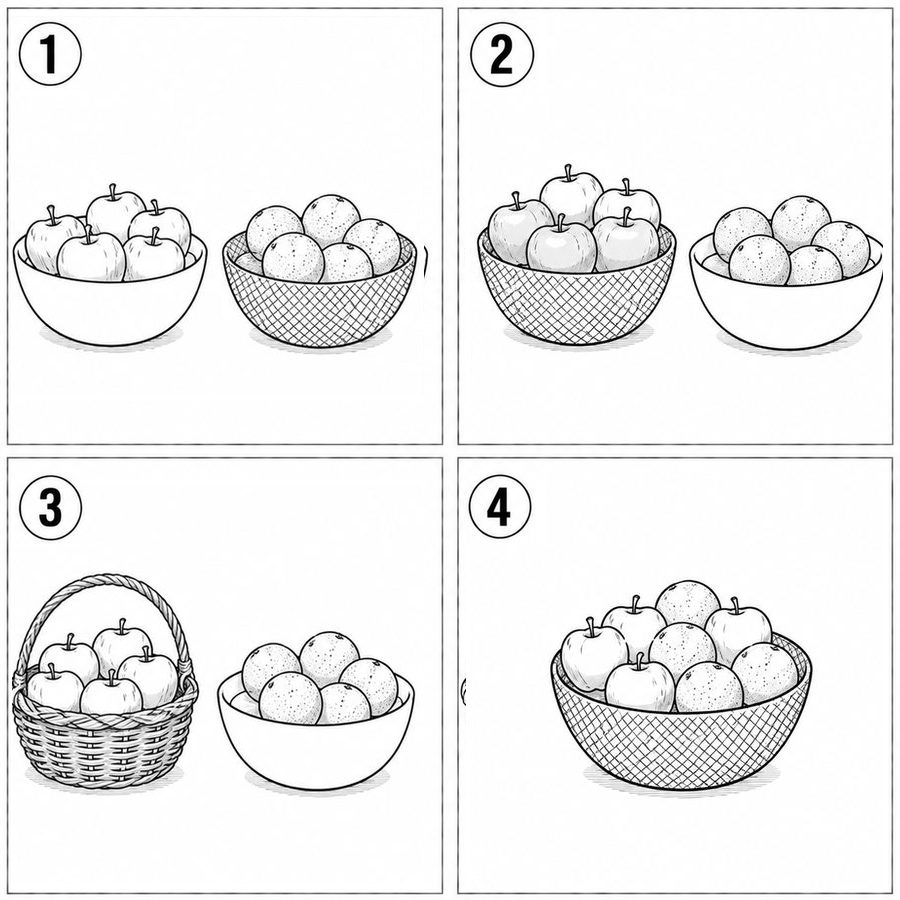
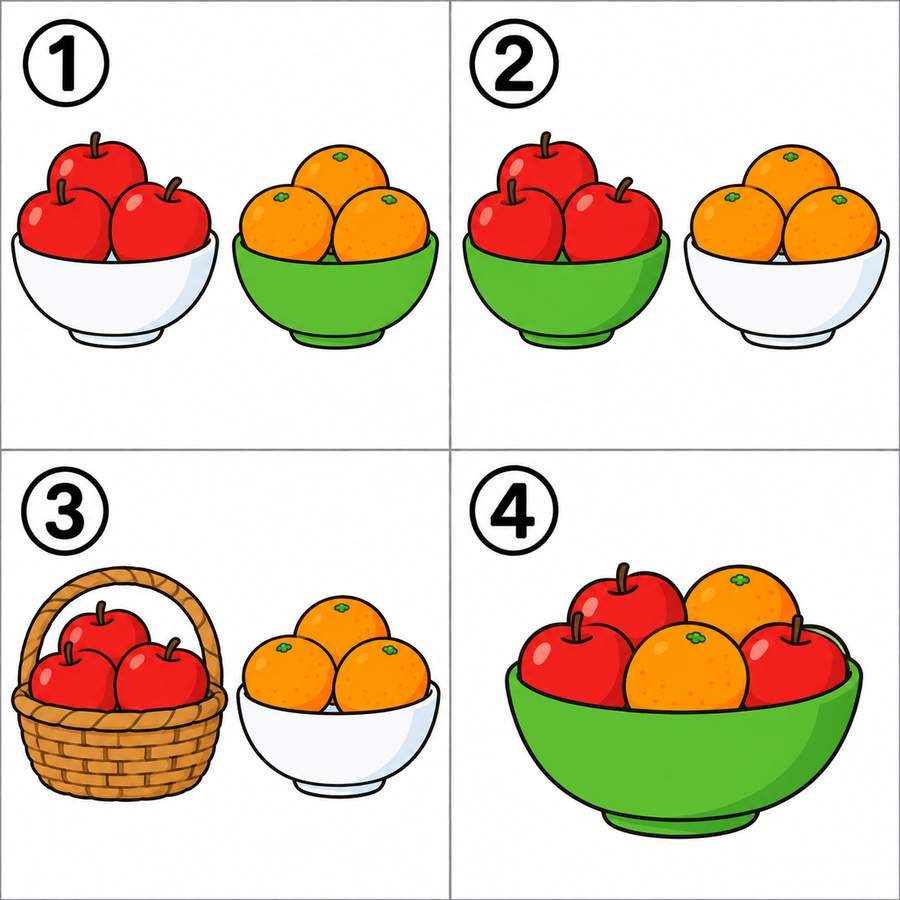
fix: restore seven color listening figures

diff --git a/src/battle/data/pictureGrid.generated.ts b/src/battle/data/pictureGrid.generated.ts
@@ -14,22 +14,22 @@ export const PICTURE_GRID_SPLITS: Readonly<Record<string, readonly [number, numb
   '/listening_q1b/el1B_set11_q4.jpg': [0.4989, 0.4989],
   '/listening_q1b/el1B_set12_q1.jpg': [0.4933, 0.4922],
   '/listening_q1b/el1B_set12_q2.jpg': [0.4922, 0.4933],
-  '/listening_q1b/el1B_set12_q3.jpg': [0.4933, 0.4956],
+  '/listening_q1b/el1B_set12_q3.jpg': [0.5, 0.5],
   '/listening_q1b/el1B_set12_q4.jpg': [0.4922, 0.4933],
   '/listening_q1b/el1B_set13_q1.jpg': [0.4989, 0.4989],
   '/listening_q1b/el1B_set13_q2.jpg': [0.4989, 0.4978],
   '/listening_q1b/el1B_set13_q3.jpg': [0.4989, 0.4989],
   '/listening_q1b/el1B_set13_q4.jpg': [0.4989, 0.4978],
   '/listening_q1b/el1B_set14_q1.jpg': [0.4978, 0.4978],
-  '/listening_q1b/el1B_set14_q2.jpg': [0.4978, 0.4978],
+  '/listening_q1b/el1B_set14_q2.jpg': [0.5, 0.5],
   '/listening_q1b/el1B_set14_q3.jpg': [0.4978, 0.4978],
   '/listening_q1b/el1B_set14_q4.jpg': [0.4956, 0.4989],
   '/listening_q1b/el1B_set15_q1.jpg': [0.4922, 0.4933],
   '/listening_q1b/el1B_set15_q2.jpg': [0.4922, 0.4933],
   '/listening_q1b/el1B_set15_q3.jpg': [0.4922, 0.4933],
-  '/listening_q1b/el1B_set15_q4.jpg': [0.4933, 0.4956],
+  '/listening_q1b/el1B_set15_q4.jpg': [0.5, 0.5],
   '/listening_q1b/el1B_set1_q1.jpg': [0.4933, 0.4956],
-  '/listening_q1b/el1B_set1_q2.jpg': [0.4944, 0.4944],
+  '/listening_q1b/el1B_set1_q2.jpg': [0.5, 0.5],
   '/listening_q1b/el1B_set1_q3.jpg': [0.4956, 0.4933],
   '/listening_q1b/el1B_set1_q4.jpg': [0.4956, 0.4978],
   '/listening_q1b/el1B_set2_q1.jpg': [0.4956, 0.4978],
@@ -62,7 +62,7 @@ export const PICTURE_GRID_SPLITS: Readonly<Record<string, readonly [number, numb
   '/listening_q1b/el1B_set8_q4.jpg': [0.4911, 0.4922],
   '/listening_q1b/el1B_set9_q1.jpg': [0.4944, 0.4951],
   '/listening_q1b/el1B_set9_q2.jpg': [0.4944, 0.4951],
-  '/listening_q1b/el1B_set9_q3.jpg': [0.4944, 0.4964],
+  '/listening_q1b/el1B_set9_q3.jpg': [0.5, 0.5],
   '/listening_q1b/el1B_set9_q4.jpg': [0.4933, 0.4964],
   '/listening_q2/el2_set10_q1.jpg': [0.4933, 0.4944],
   '/listening_q2/el2_set10_q2.jpg': [0.4789, 0.4778],
@@ -72,7 +72,7 @@ export const PICTURE_GRID_SPLITS: Readonly<Record<string, readonly [number, numb
   '/listening_q2/el2_set11_q3.jpg': [0.4933, 0.4944],
   '/listening_q2/el2_set12_q1.jpg': [0.4922, 0.4956],
   '/listening_q2/el2_set12_q2.jpg': [0.4911, 0.4944],
-  '/listening_q2/el2_set12_q3.jpg': [0.4933, 0.4944],
+  '/listening_q2/el2_set12_q3.jpg': [0.5, 0.5],
   '/listening_q2/el2_set13_q2.jpg': [0.4933, 0.4956],
   '/listening_q2/el2_set13_q3.jpg': [0.4933, 0.4956],
   '/listening_q2/el2_set14_q1.jpg': [0.4922, 0.4956],
@@ -83,7 +83,7 @@ export const PICTURE_GRID_SPLITS: Readonly<Record<string, readonly [number, numb
   '/listening_q2/el2_set16_q3.jpg': [0.4911, 0.49],
   '/listening_q2/el2_set1_q1.jpg': [0.4944, 0.4956],
   '/listening_q2/el2_set1_q2.jpg': [0.4944, 0.4956],
-  '/listening_q2/el2_set1_q3.jpg': [0.4956, 0.4978],
+  '/listening_q2/el2_set1_q3.jpg': [0.5, 0.5],
   '/listening_q2/el2_set2_q1.jpg': [0.4933, 0.4956],
   '/listening_q2/el2_set3_q3.jpg': [0.4878, 0.4878],
   '/listening_q2/el2_set4_q1.jpg': [0.4922, 0.4933],

diff --git a/tests/battlePictureListening.test.ts b/tests/battlePictureListening.test.ts
@@ -1,7 +1,9 @@
 /** 対戦：リスニングの「絵を選ぶ」問題と、音源・絵の先読み */
 import { describe, expect, it } from 'vitest';
-import { readFileSync } from 'node:fs';
+import { existsSync, readFileSync } from 'node:fs';
 import { preloadTargets } from '../src/battle/core/preload';
+import { PICTURE_GRID_SPLITS } from '../src/battle/data/pictureGrid.generated';
+import { LISTENING_PICTURE_ASPECT } from '../src/data/listeningPictureAspect';
 
 describe('対戦の絵と先読み', () => {
   it('対戦画面は問題の絵（imageUrl）を描き、読み込み失敗時は読み直せる', () => {
@@ -22,6 +24,22 @@ describe('対戦の絵と先読み', () => {
     expect(preloadTargets(qs, 0)).toEqual(['/a0.mp3', '/p0.jpg', '/a1.mp3', '/p1.jpg']);
     expect(preloadTargets(qs, 2)).toEqual(['/a2.mp3']);
     expect(preloadTargets([{ imageUrl: '/x.jpg' }, { imageUrl: '/x.jpg' }], 0)).toEqual(['/x.jpg']);
+  });
+  it('F4の7枚は既存画像パスのまま正方形4分割で使う', () => {
+    const replacementPaths = [
+      '/listening_q1b/el1B_set1_q2.jpg',
+      '/listening_q1b/el1B_set9_q3.jpg',
+      '/listening_q1b/el1B_set12_q3.jpg',
+      '/listening_q1b/el1B_set14_q2.jpg',
+      '/listening_q1b/el1B_set15_q4.jpg',
+      '/listening_q2/el2_set1_q3.jpg',
+      '/listening_q2/el2_set12_q3.jpg',
+    ];
+    for (const imagePath of replacementPaths) {
+      expect(existsSync(`public${imagePath}`), imagePath).toBe(true);
+      expect(PICTURE_GRID_SPLITS[imagePath], imagePath).toEqual([0.5, 0.5]);
+      expect(LISTENING_PICTURE_ASPECT[imagePath] ?? 1, imagePath).toBe(1);
+    }
   });
   it('オンライン対戦・AI対戦の両方で先読みしている', () => {
     for (const f of ['useBattleRoom', 'useAiBattle']) {

diff --git a/src/data/listeningPictureAspect.ts b/src/data/listeningPictureAspect.ts
@@ -7,7 +7,6 @@ export const LISTENING_PICTURE_ASPECT: Readonly<Record<string, number>> = {
  "/listening_q1b/el1B_set7_q4.jpg": 1.0949,
  "/listening_q1b/el1B_set9_q1.jpg": 1.0949,
  "/listening_q1b/el1B_set9_q2.jpg": 1.0949,
- "/listening_q1b/el1B_set9_q3.jpg": 1.0949,
  "/listening_q1b/el1B_set9_q4.jpg": 1.0949,
  "/listening_q2/el2_set13_q1.jpg": 1.1016,
  "/listening_q2/el2_set15_q2.jpg": 1.25,

diff --git a/docs/UI_CHANGELOG.md b/docs/UI_CHANGELOG.md
@@ -1,3 +1,10 @@
+## 2026-11-07 リスニング絵問題7図をカラー版へ差し替え
+
+- 第1問B・第1回/9回/12回/14回/15回と第2問・第1回/12回の絵問題をカラー図版へ差し替え。バッグ問題を含む対象7画像のみ変更し、その他の図版や英文法音声UIは変更しない。
+- 正方形図版に合わせて、対戦・復習用の4分割境界と第1問B第9回の表示比率を更新。
+- 対象：`public/listening_q1b/` の5画像、`public/listening_q2/` の2画像、`src/battle/data/pictureGrid.generated.ts`、`src/data/listeningPictureAspect.ts`、`tests/battlePictureListening.test.ts`。
+- 戻し方：この変更を revert。
+
 ## 2026-11-06 TOEIC®対策のApp Store掲載と起動時の免責表示
 
 - App Store掲載文にTOEIC® L&R TEST対策（Part 5〜7）のオリジナル問題を明記し、ETSの登録商標・非承認の英文注記を長文・短文の両方に追加。
